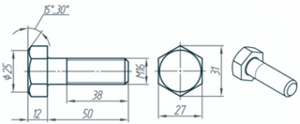
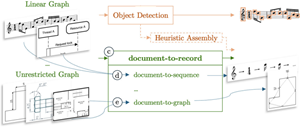
finalized IJDAR paper

diff --git a/home.md b/home.md
@@ -112,9 +112,9 @@ medical decision support systems</strong></a>. In: Proceedings of the 12th IAPR 
 </td>
 </tr>
 <tr>
-<td style="width: 175px;"><a href="https://arxiv.org/abs/2507.08458"><img alt="Paper thumbnail" style="height:auto; width:175px;" src="http://stdm.github.io/images/papers/IJDAR_2026.png"/></a></td>
+<td style="width: 175px;"><a href="https://link.springer.com/article/10.1007/s10032-026-00602-9"><img alt="Paper thumbnail" style="height:auto; width:175px;" src="http://stdm.github.io/images/papers/IJDAR_2026.png"/></a></td>
 <td>
-Benjamin Meyer, Lukas Tuggener, Sascha Hänzi, Daniel Schmid, Erdal Ayfer, Benjamin F. Grewe, Ahmed Abdulkadir, and Thilo Stadelmann. <a href="https://stdm.github.io/downloads/papers/ArXiv_2025c.pdf"><strong>A document is worth a structured record: Principled inductive bias design for document recognition</strong></a>. In: accepted to International Journal on Document Analysis and Recognition (<strong>IJDAR</strong>), June 04, 2026. Preprint <a href="https://arxiv.org/abs/2507.08458">arXiv:2507.08458</a>.
+Benjamin Meyer, Lukas Tuggener, Sascha Hänzi, Daniel Schmid, Erdal Ayfer, Benjamin F. Grewe, Ahmed Abdulkadir, and Thilo Stadelmann. <a href="https://stdm.github.io/downloads/papers/IJDAR_2026.pdf"><strong>A document is worth a structured record: Principled inductive bias design for document recognition</strong></a>. In: International Journal on Document Analysis and Recognition (<strong>IJDAR</strong>), July 23, 2026. DOI <a href="https://doi.org/10.1007/s10032-026-00602-9">10.1007/s10032-026-00602-9</a>.
 </td>
 </tr>
 <tr>